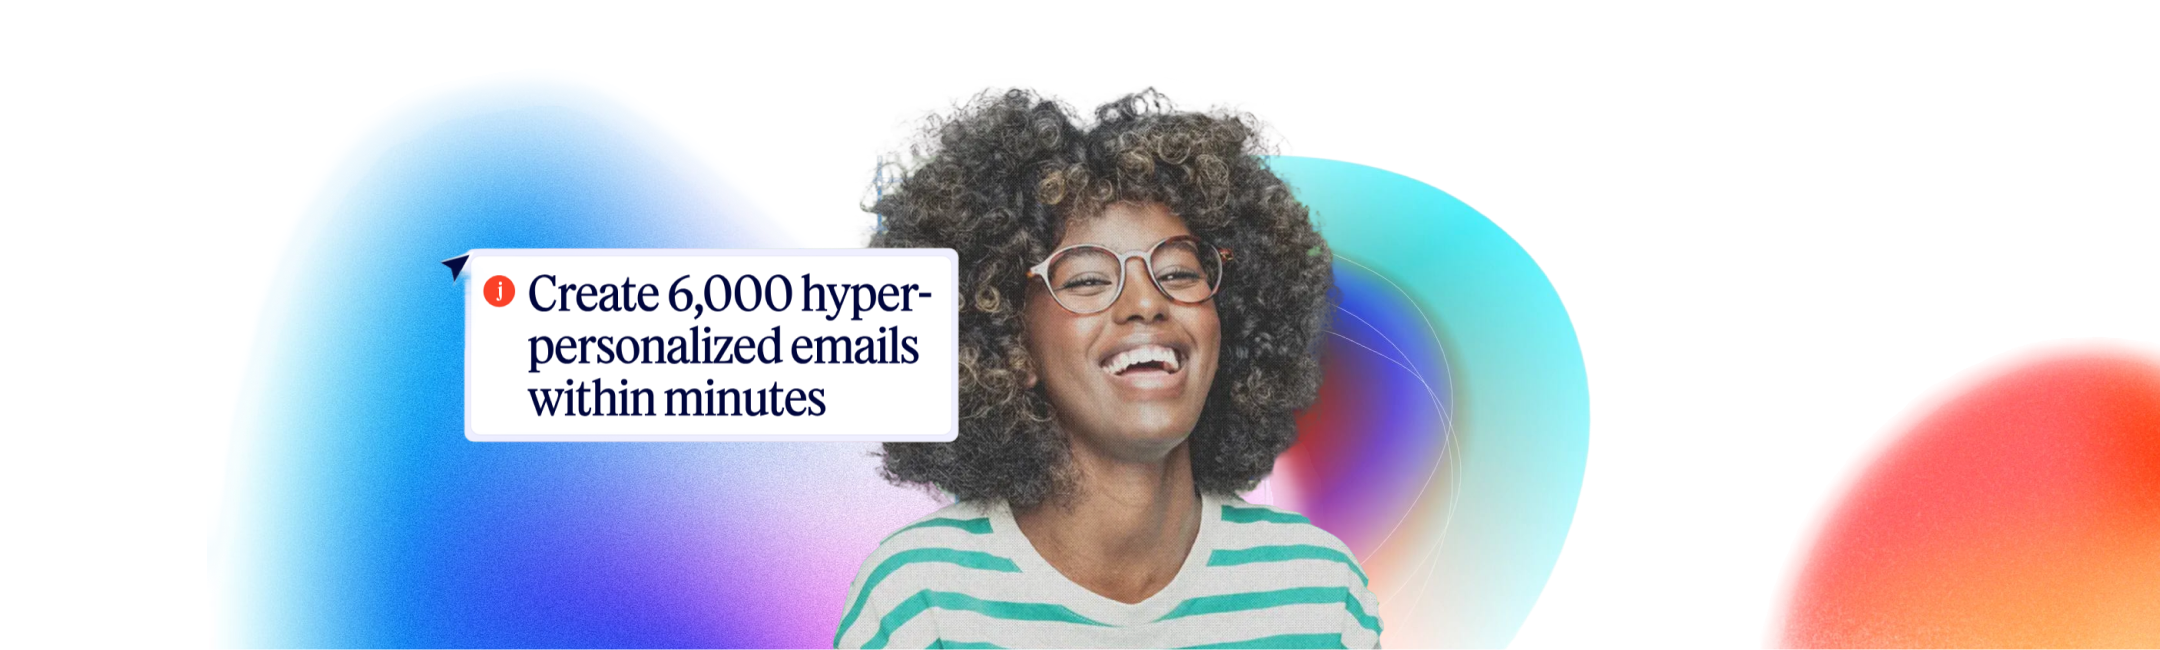
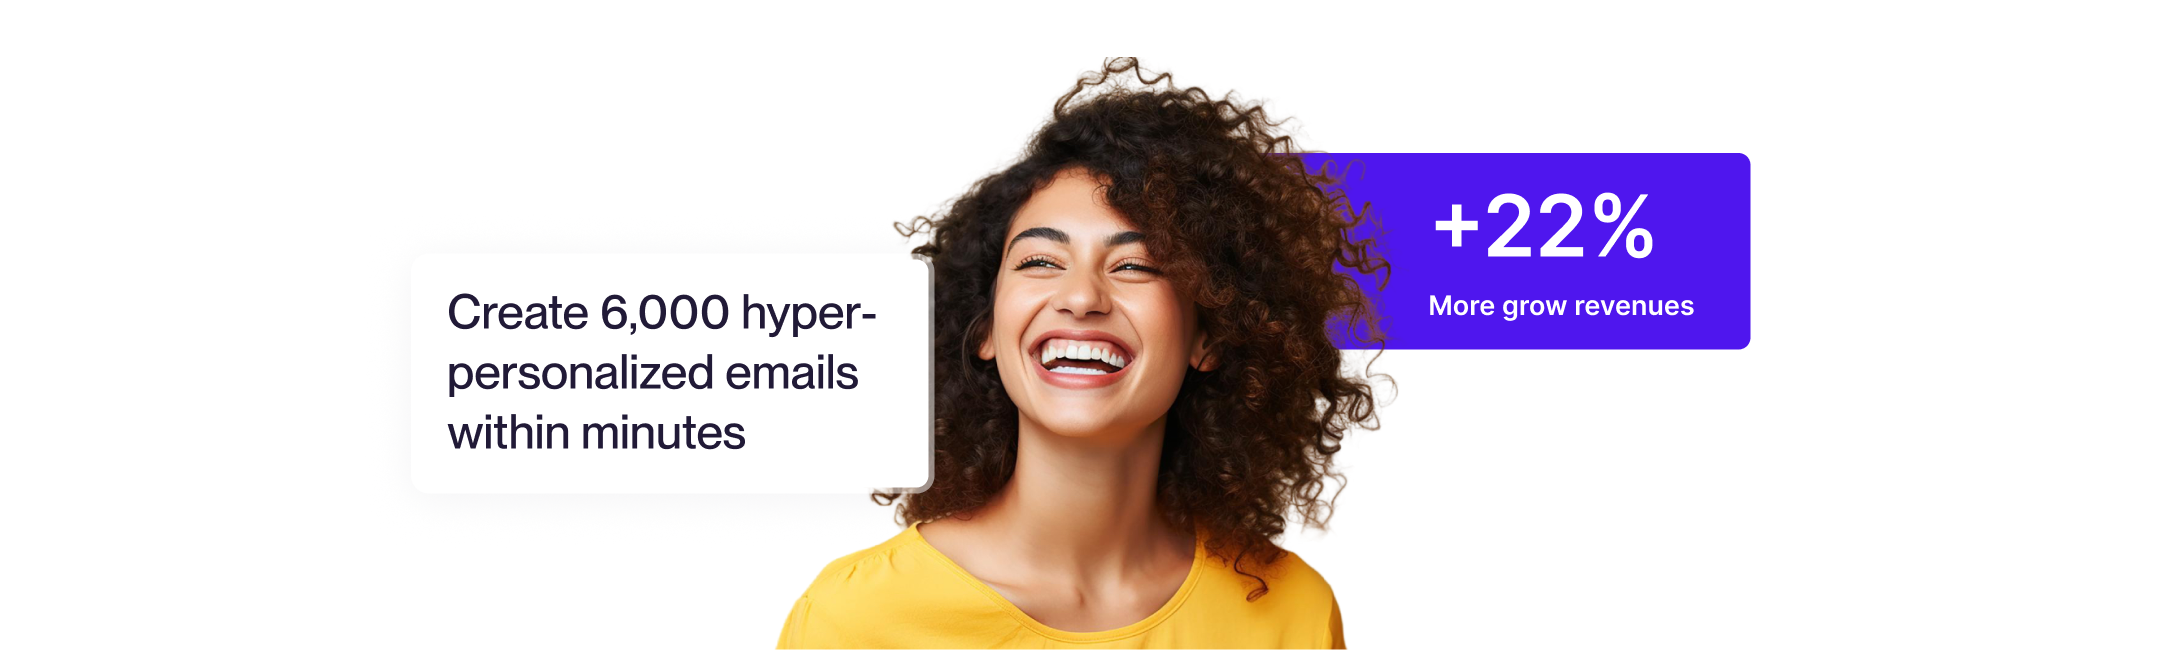
Updated the hero structure and image and added background image for hero section

diff --git a/src/app/components/hero.tsx b/src/app/components/hero.tsx
@@ -12,6 +12,7 @@ interface ButtonProps {
 
 interface ImageProps {
   path: string;
+  bgPath?: string;
   title?: string;
   width?: number;
   height?: number;
@@ -31,7 +32,14 @@ interface HeroProps {
 
 export default function Hero({ heroData }: HeroProps) {
   return (
-    <section className="flex bg-gradient-to-b from-[#FBFBFD] to-white flex-col gap-2.5 justify-between pt-20 md:pt-24 xl:pt-36">
+    <section
+      className="flex bg-gradient-to-b from-[#FBFBFD] bg-contain bg-[center_bottom] bg-no-repeat to-white flex-col gap-2.5 justify-between pt-20 md:pt-24 xl:pt-36"
+      style={{
+        backgroundImage: heroData.bannerImage?.bgPath
+          ? `url('${heroData.bannerImage.bgPath}')`
+          : undefined,
+      }}
+    >
       <div className="flex container flex-col items-center text-center">
         {heroData.badgeImage && (
           <Image

diff --git a/src/app/page.tsx b/src/app/page.tsx
@@ -27,6 +27,7 @@ const heroData = {
   ],
   bannerImage: {
     path: "/media/images/home-hero.webp",
+    bgPath: "/media/images/home-hero-bg.webp",
     title: "Home hero banner",
     width: 1440,
     height: 433,
